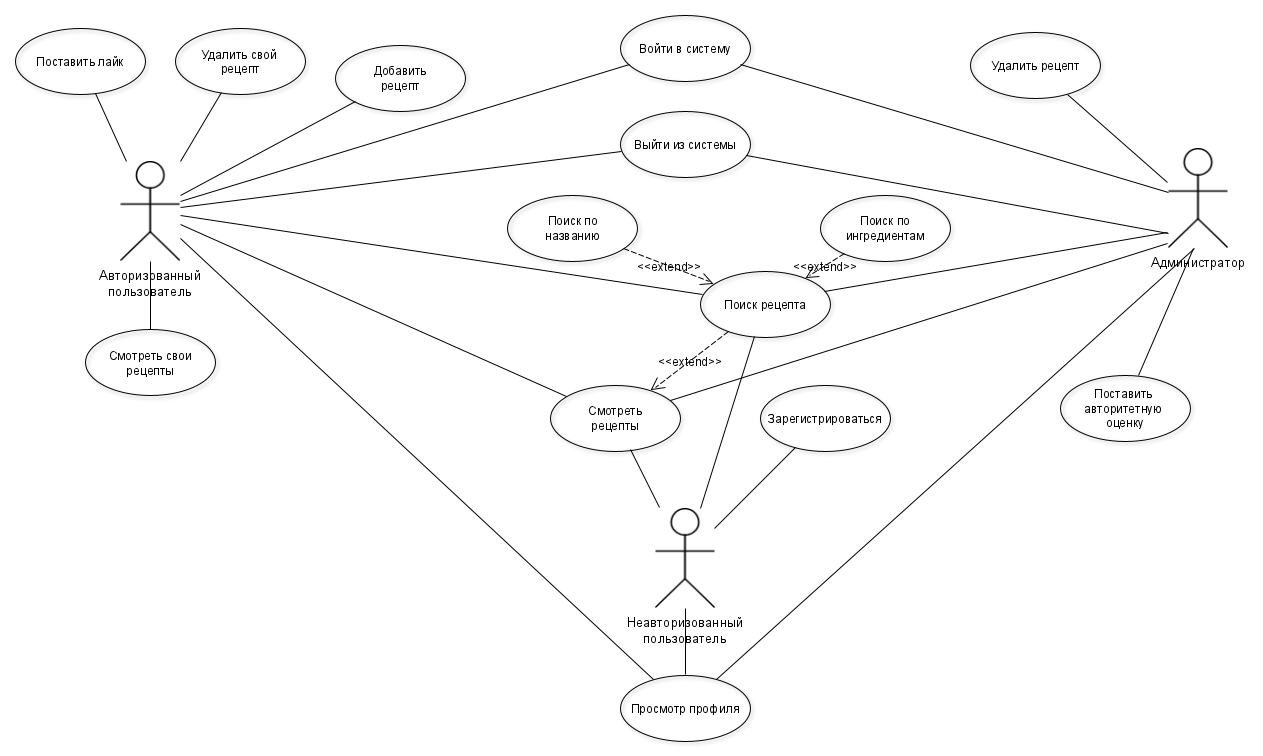
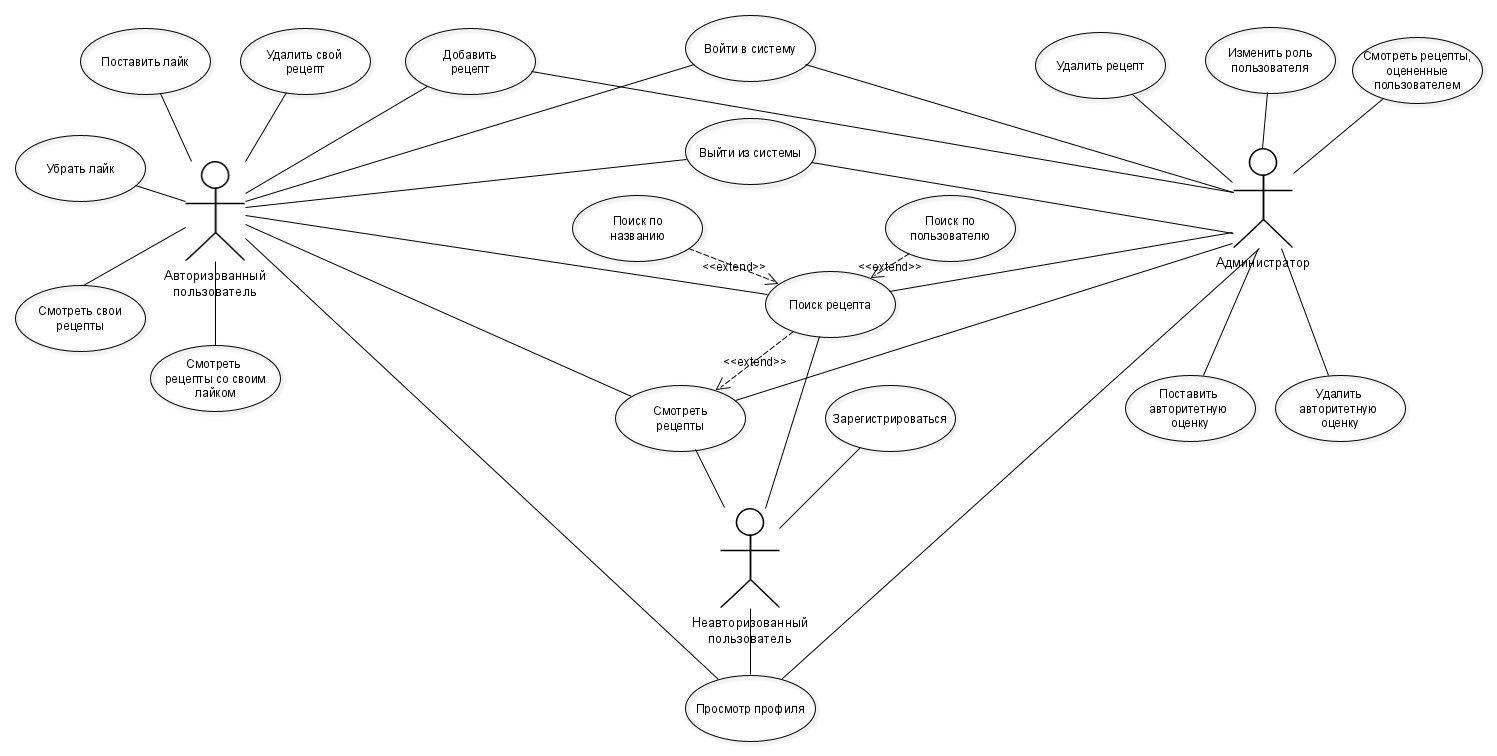
ADDED: some details

diff --git a/server/controllers/accounts.go b/server/controllers/accounts.go
@@ -121,6 +121,7 @@ func (this *account) get(w http.ResponseWriter, r *http.Request) {
 // @Produce json
 // @Success 200 Successful operation
 // @Failure 400 Invalid value
+// @Failure 403 Access denied
 func (this *account) patch(w http.ResponseWriter, r *http.Request) {
 	accDTO := new(objects.AccountDTO)
 	err := json.NewDecoder(r.Body).Decode(accDTO)
@@ -132,12 +133,20 @@ func (this *account) patch(w http.ResponseWriter, r *http.Request) {
 	urlParams := mux.Vars(r)
 	login := urlParams["login"]
 
-	err = this.model.UpdateRole(login, accDTO.Role)
+	cur_login, err := auth.LoginFromCookie(r)
+	if err != nil {
+		responses.AuthenticationFailed(w)
+		return
+	}
+
+	err = this.model.UpdateRole(cur_login, login, accDTO.Role)
 	switch err {
 	case nil:
 		responses.TextSuccess(w, "Account updation was successful")
 	case errors.UnknownAccount:
 		responses.RecordNotFound(w, "user")
+	case errors.AccessDenied:
+		responses.AccessDenied(w)
 	case errors.UnknownRole:
 		responses.BadRequest(w, "Wrong role")
 	default:

diff --git a/server/models/accounts.go b/server/models/accounts.go
@@ -37,7 +37,20 @@ func (this *AccountM) Create(obj *objects.Account) error {
 	return err
 }
 
-func (this *AccountM) UpdateRole(login, role string) error {
+func (this *AccountM) UpdateRole(cur_login, login, role string) error {
+	if this.models.Accounts.IsExists(cur_login) == false {
+		return errors.UnknownAccount
+	}
+
+	cur_role, err := this.GetRole(cur_login)
+	if err != nil {
+		return errors.UnknownAccount
+	}
+
+	if cur_role != AdminRole {
+		return errors.AccessDenied
+	}
+
 	if this.IsExists(login) == false {
 		return errors.UnknownAccount
 	}
@@ -45,8 +58,6 @@ func (this *AccountM) UpdateRole(login, role string) error {
 	if role != AdminRole && role != UserRole {
 		return errors.UnknownRole
 	}
-
-	// FIXME: current role == admin
 
 	return this.rep.UpdateRole(login, role)
 }

diff --git a/server/controllers/responses/responses.go b/server/controllers/responses/responses.go
@@ -31,8 +31,15 @@ func TokenIsMissed(w http.ResponseWriter) {
 	json.NewEncoder(w).Encode(msg)
 }
 
-func AccessDenied(w http.ResponseWriter) {
+func JwtAccessDenied(w http.ResponseWriter) {
 	msg := "jwt-token is not valid"
+	w.Header().Set("Content-Type", "application/json; charset=UTF-8")
+	w.WriteHeader(http.StatusForbidden)
+	json.NewEncoder(w).Encode(msg)
+}
+
+func AccessDenied(w http.ResponseWriter) {
+	msg := "Access denied"
 	w.Header().Set("Content-Type", "application/json; charset=UTF-8")
 	w.WriteHeader(http.StatusForbidden)
 	json.NewEncoder(w).Encode(msg)

diff --git a/server/controllers/recipes.go b/server/controllers/recipes.go
@@ -113,7 +113,7 @@ func (this *recipe) deleteRecipe(w http.ResponseWriter, r *http.Request) {
 	case nil:
 		responses.TextSuccess(w, "Delete operation was successful")
 	case errors.AccessDeleteDenied:
-		responses.AccessDenied(w)
+		responses.JwtAccessDenied(w)
 	case errors.RecordNotFound:
 		responses.RecordNotFound(w, "user")
 	case errors.UnknownAccount:

diff --git a/server/errors/accounts.go b/server/errors/accounts.go
@@ -12,5 +12,6 @@ var (
 
 	UnknownAccount = errors.New("Account is not found")
 	UnknownRole = errors.New("Role is not found")
+	AccessDenied = errors.New("Access denied")
 	AccountExists = errors.New("Account associated with such login is already exists")
 )

diff --git a/server/controllers/token/jwt.go b/server/controllers/token/jwt.go
@@ -88,7 +88,7 @@ var JwtAuthentication = func(next http.Handler) http.Handler {
 		})
 
 		if err != nil || !token.Valid { 
-			responses.AccessDenied(w)
+			responses.JwtAccessDenied(w)
 			return
 		}
 
